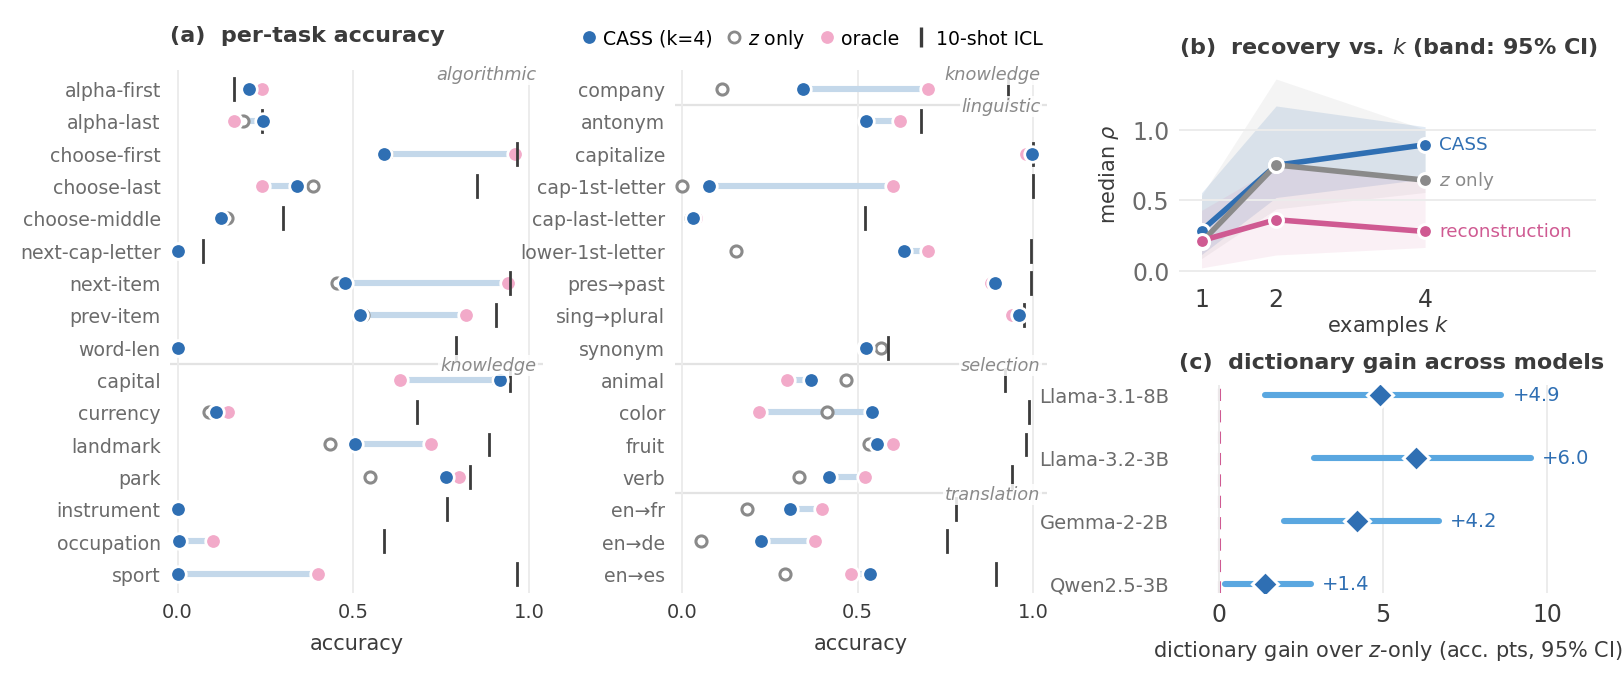
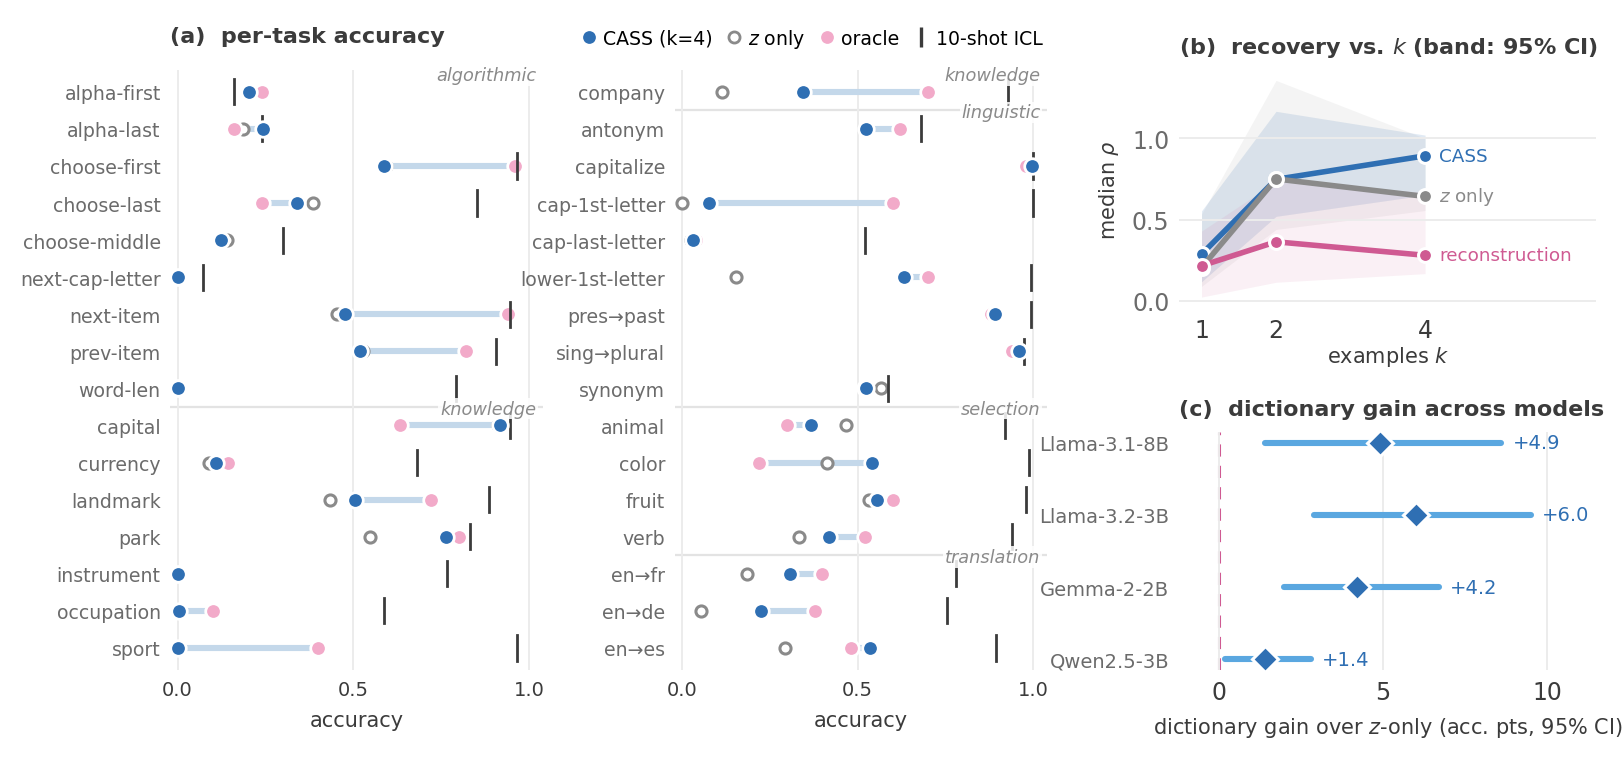
Restore figure sizes for the 8-page body (revert the 7-page compression); text reverts live in paper/main.tex

diff --git a/scripts/16_paper_figures.py b/scripts/16_paper_figures.py
@@ -95,7 +95,7 @@ R4 = R[R["k"] == 4].sort_values(["family", "task"]).reset_index(drop=True)
 e1 = pd.read_csv(out / "e1_loto.csv")
 bl = json.load(open(out / "baselines.json"))
 
-fig = plt.figure(figsize=(9.2, 3.4))
+fig = plt.figure(figsize=(9.2, 3.9))
 gs = fig.add_gridspec(2, 3, width_ratios=[1, 1, 1.12], hspace=0.52,
                       wspace=0.34)
 axA1 = fig.add_subplot(gs[:, 0])
@@ -299,7 +299,7 @@ agg = e2.groupby("compound").agg(cass=("acc_cass", "mean"),
                                  naive=("acc_naive", "mean"),
                                  icl=("acc_icl", "first"))
 
-fig = plt.figure(figsize=(10.6, 2.44))
+fig = plt.figure(figsize=(10.6, 2.6))
 gs = fig.add_gridspec(2, 5, width_ratios=[1.62, 0.38, 1.02, 0.62, 0.62],
                       height_ratios=[0.20, 1.0], wspace=0.42, hspace=0.10)
 axH = fig.add_subplot(gs[1, 0])
@@ -413,7 +413,7 @@ panels = [("r0", [0, 1, 2, 4, 8, 16], "shared rank $r_0$"),
           ("k", [1, 2, 4, 8], "examples $k$"),
           ("smax", [3, 5, 8, 31], "support cap $s_{\\max}$"),
           ("n", [25, 50, 100], "samples per skill $n$")]
-fig, axs = plt.subplots(2, 2, figsize=(2.05, 1.82), sharey=True)
+fig, axs = plt.subplots(2, 2, figsize=(2.05, 2.0), sharey=True)
 for ax, (axis, vals, title) in zip(axs.ravel(), panels):
     ys = ax_vals(axis, vals)
     xs = range(len(vals))